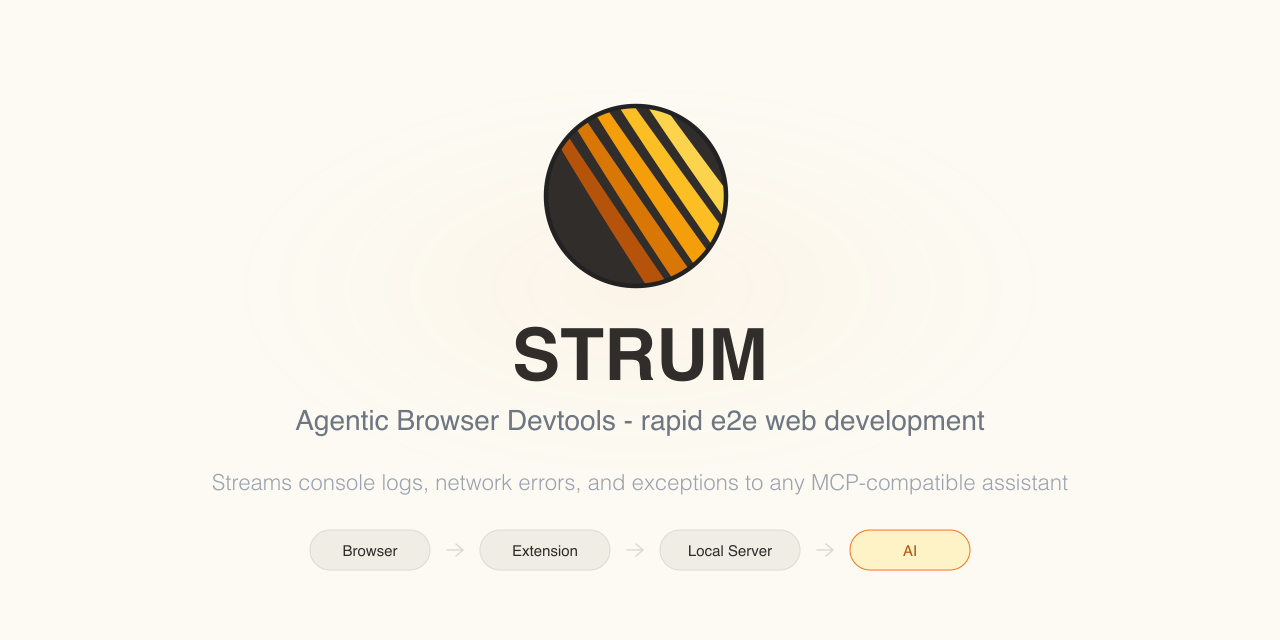
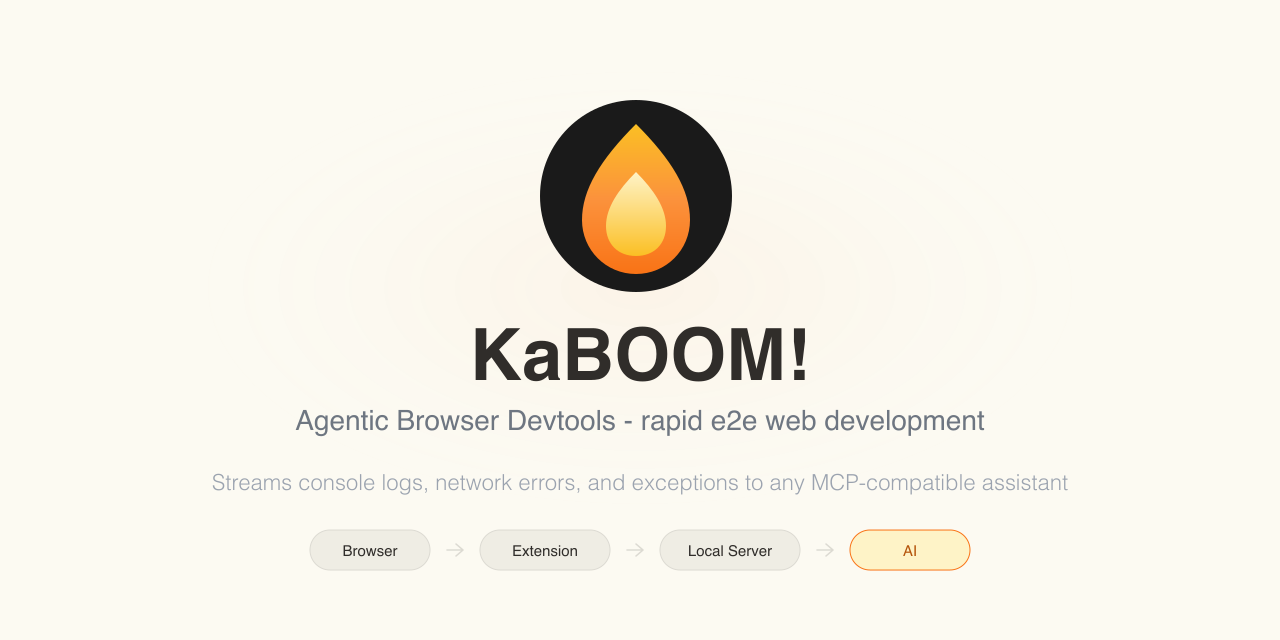
brand: rebrand all images from Gasoline/Strum to KaBOOM!
- Regenerate hero-banner, landing, og-default, social-preview PNGs
  from new SVGs with KaBOOM! branding and flame logo
- Regenerate Chrome store tiles (small, marquee) and banners
  (readme, github-social-preview, screenshot) from updated SVGs
- Update 3 existing SVGs: Kaboom → KaBOOM!
- Remove 5 obsolete Gasoline-branded sparky illustrations
- Update docs/index.md to remove deleted illustration reference

Remaining: kaboom.png and kaboom-screenshot.png in chrome_store
still show old popup UI — need fresh screenshots from live extension.

Changed region(s): [[0.4062, 0.1562, 0.5938, 0.4688], [0.3438, 0.5, 0.6562, 0.5938]]

diff --git a/docs/index.md b/docs/index.md
@@ -34,13 +34,9 @@ npx kaboom-mcp
 
 Kaboom is a **browser extension + local MCP server** that streams real-time browser data to autonomous coding agents. Console errors, failed API calls, uncaught exceptions, WebSocket traffic, live DOM state — your AI sees it all and fixes issues without you lifting a finger.
 
-## Smart Teams Cook With Kaboom
+## Smart Teams Use KaBOOM!
 
-<img src="/assets/images/sparky-cook-with-kaboom-1.png" alt="Sparky cooking with kaboom" style="float: right; width: clamp(60px, 15vw, 120px); height: auto; margin: 0 0 1rem 1.5rem; border-radius: 8px;">
-
-<span style="color: #22c55e;">Sparky says: No more copy-paste debugging. Just code, fix, and ship.</span>
-
-<div style="clear: both;"></div>
+<span style="color: #22c55e;">No more copy-paste debugging. Just code, fix, and ship.</span>
 
 **No debug port required.** Other tools need Chrome launched with `--remote-debugging-port`, which disables security sandboxing and breaks your normal browser workflow. Kaboom uses a standard extension — your browser stays secure and unmodified.
 
